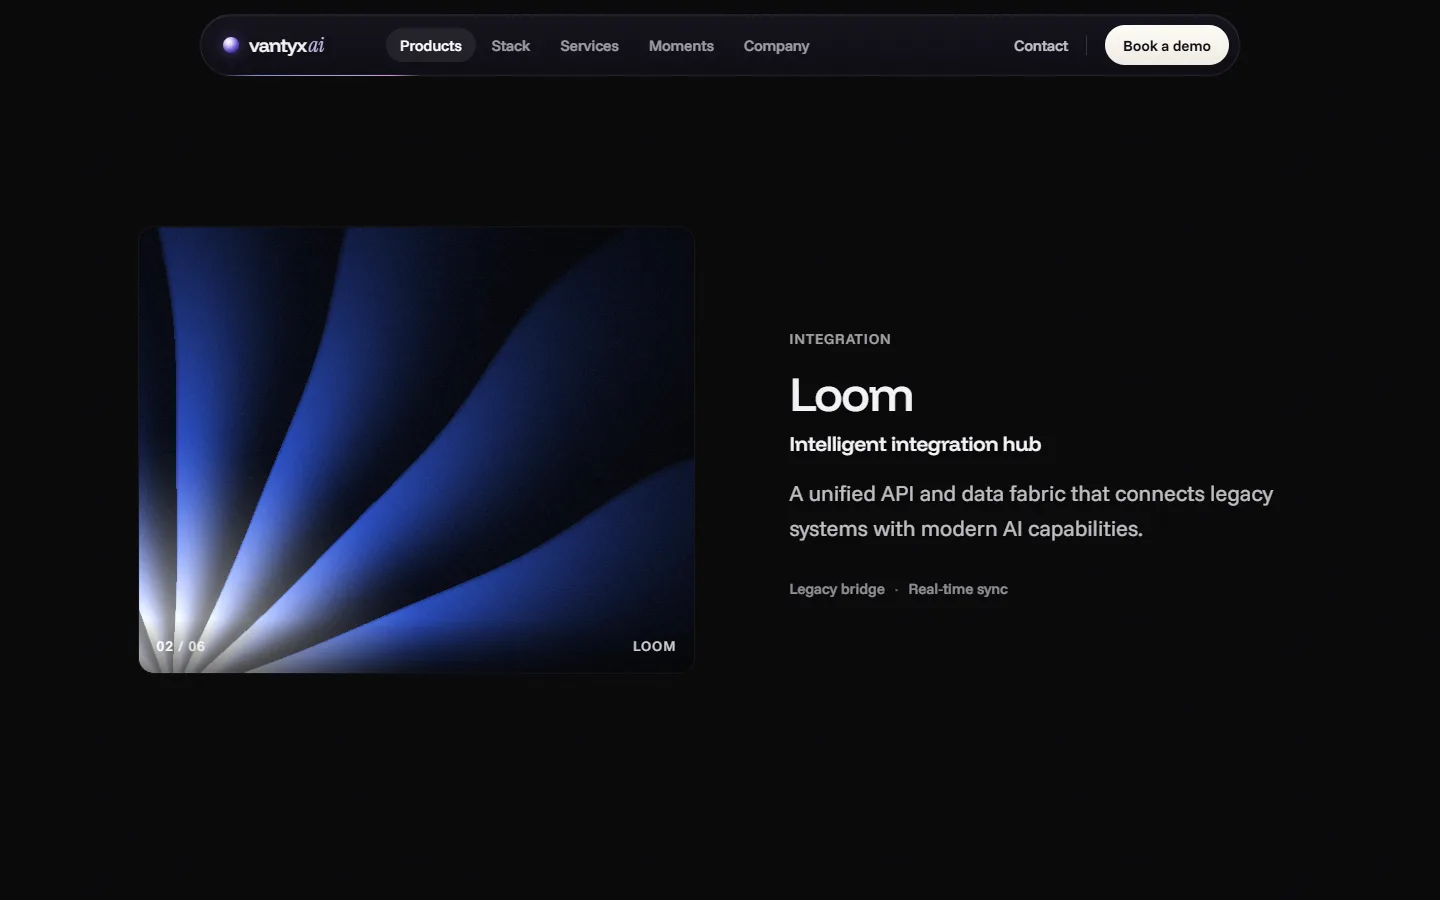
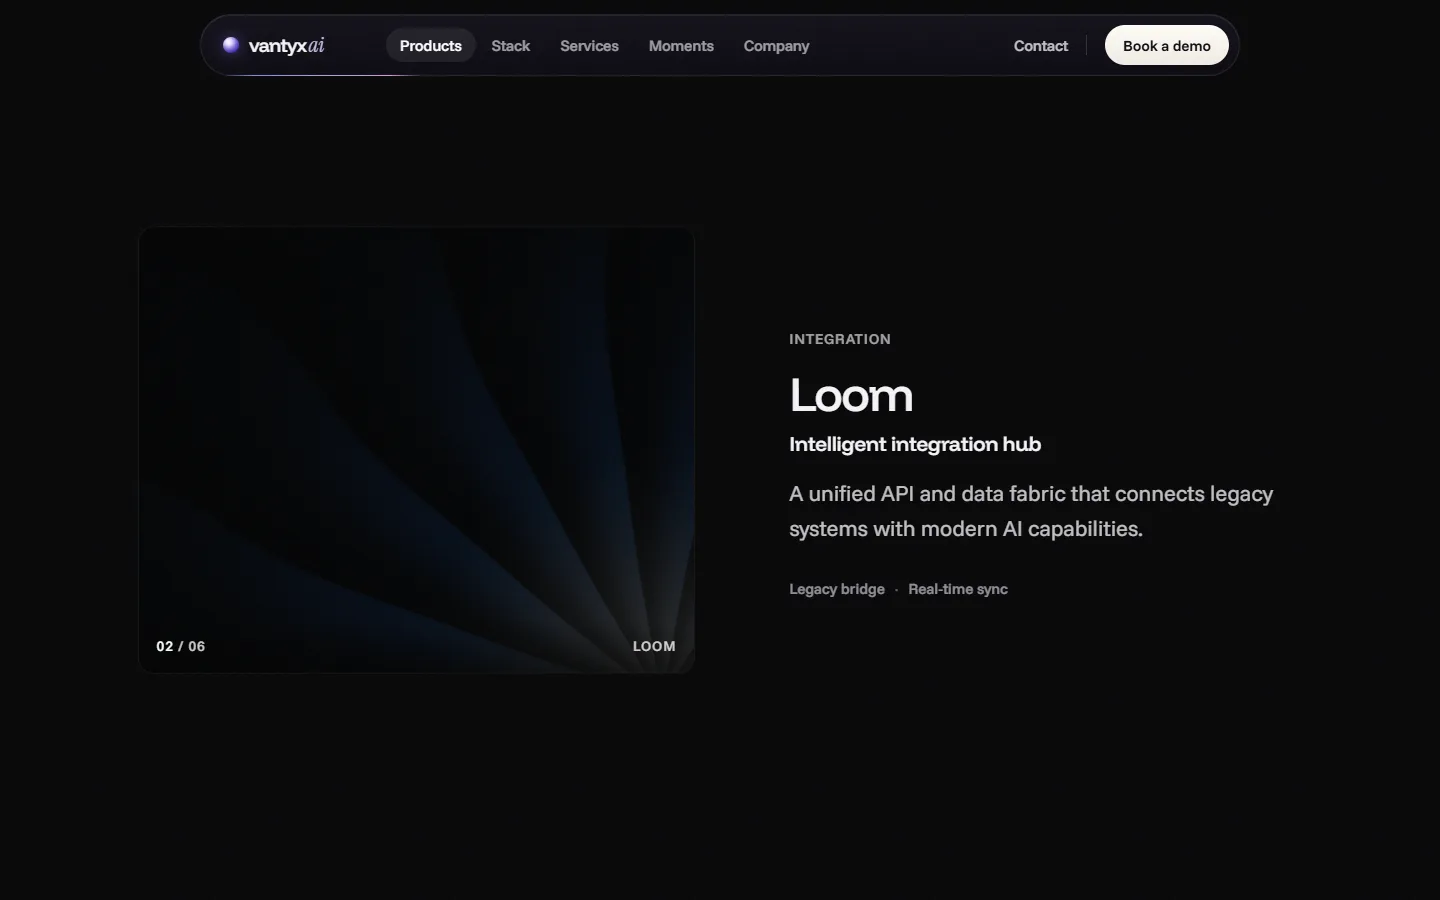
Home: Digital Nexus AI first; Work as two large cards in a wider grid
Label above the grid, one-line captions, stacked captions on phones.
Re-captured the 'Outcomes, not demos' screen with the heading clear of the nav.

Changed region(s): [[0.0938, 0.2489, 0.4688, 0.7467], [0.4375, 0.6844, 0.4688, 0.7156]]

diff --git a/index.html b/index.html
@@ -9,7 +9,7 @@
   <link rel="preconnect" href="https://fonts.gstatic.com" crossorigin>
   <link href="https://fonts.googleapis.com/css2?family=Instrument+Serif:ital@0;1&family=Inter:wght@400;500&display=swap" rel="stylesheet">
   <script>document.documentElement.classList.add("loading"); /* night first (my ask, 2026-11-19): a first visit opens at night; a saved "day" keeps day */ let t = null; try { t = localStorage.getItem("theme"); } catch (e) {} if (t !== "day") document.documentElement.dataset.theme = "night";</script>
-  <link rel="stylesheet" href="style.css?v=blend5">
+  <link rel="stylesheet" href="style.css?v=work8">
 </head>
 <body>
   <div class="loader" id="loader" aria-hidden="true">
@@ -60,6 +60,16 @@
     <section class="col" id="work">
       <h2>Work</h2>
       <div class="cards">
+        <a class="pcard" href="nexus.html" aria-label="Digital Nexus AI, website redesign concept (case study)">
+          <figure class="board" data-cycle>
+            <img class="shot on" src="assets/nexus/hero.webp?v=5" width="1440" height="900" alt="Digital Nexus AI redesign concept, home page" decoding="async" loading="lazy" draggable="false">
+            <img class="shot" src="assets/nexus/products.webp?v=6" width="1440" height="900" alt="" decoding="async" loading="lazy" draggable="false">
+            <img class="shot" src="assets/nexus/work.webp?v=6" width="1440" height="900" alt="" decoding="async" loading="lazy" draggable="false">
+            <span class="dots" aria-hidden="true"><i class="on"></i><i></i><i></i></span>
+          </figure>
+          <span class="cap"><span class="name">Digital Nexus AI <span class="arrow" aria-hidden="true">&rarr;</span></span><span class="kind">Website redesign concept</span></span>
+          <span class="line">An AI company&rsquo;s site that shows the work, not the hype. Five decisions, built in code.</span>
+        </a>
         <a class="pcard" href="https://genzoui.vercel.app" target="_blank" rel="noopener" aria-label="Genzo, component library (opens in a new tab)">
           <figure class="board" data-cycle>
             <img class="shot on" data-key="home" src="assets/genzo-home.png" width="1280" height="800" alt="Genzo's home page" decoding="async" loading="lazy" draggable="false">
@@ -70,16 +80,6 @@
           </figure>
           <span class="cap"><span class="name">Genzo <span class="arrow" aria-hidden="true">↗</span></span><span class="kind">Component library</span></span>
           <span class="line">Everyday interface elements with motion. Designers open the Figma file; Android code is on its way.</span>
-        </a>
-        <a class="pcard" href="nexus.html" aria-label="Digital Nexus AI, website redesign concept (case study)">
-          <figure class="board" data-cycle>
-            <img class="shot on" src="assets/nexus/hero.webp?v=5" width="1440" height="900" alt="Digital Nexus AI redesign concept, home page" decoding="async" loading="lazy" draggable="false">
-            <img class="shot" src="assets/nexus/products.webp?v=2" width="1440" height="900" alt="" decoding="async" loading="lazy" draggable="false">
-            <img class="shot" src="assets/nexus/work.webp?v=2" width="1440" height="900" alt="" decoding="async" loading="lazy" draggable="false">
-            <span class="dots" aria-hidden="true"><i class="on"></i><i></i><i></i></span>
-          </figure>
-          <span class="cap"><span class="name">Digital Nexus AI <span class="arrow" aria-hidden="true">&rarr;</span></span><span class="kind">Website redesign concept</span></span>
-          <span class="line">An AI company&rsquo;s site that shows the work, not the hype. Five decisions, built in code.</span>
         </a>
       </div>
     </section>

diff --git a/style.css b/style.css
@@ -633,3 +633,23 @@ a.hob { color: var(--ink); }
   section.col h2.sub:has(+ .svc) { --nudge: -14px; }
 }
 .pcard[href$=".html"]:hover .cap .arrow, .pcard[href$=".html"]:focus-visible .cap .arrow { translate: 3px 0; } /* in-site case study: the arrow points on, not out */
+
+/* Work, bigger (2026-11-19): a wider section than the text column, two large cards side by side
+   (about 1040px across on desktop), the "Work" label above them aligned to the grid, caption on one line
+   (name left, kind right) with the one-line summary under it. One column on phones. */
+#work.col { max-width: 1088px; padding: 0 24px; }
+.cards { grid-template-columns: repeat(2, minmax(0, 1fr)); gap: 48px 16px; width: 100%; margin-left: 0; translate: none; }
+.board { aspect-ratio: 4 / 3; --pad: clamp(20px, 4.4vw, 56px); border-radius: 18px; }
+.cap { margin-top: 16px; flex-wrap: wrap; row-gap: 2px; }
+.cap .name { font-size: 17px; white-space: nowrap; }
+.cap .kind { font-size: 15px; }
+.pcard .line { font-size: 15px; margin-top: 4px; }
+#work h2 { margin-bottom: 28px; }
+@media (min-width: 1200px) {
+  #work h2 { position: static; width: auto; text-align: left; margin: 0 0 28px; }
+}
+@media (max-width: 720px) {
+  #work.col { padding: 0 20px; }
+  .cards { grid-template-columns: 1fr; gap: 44px; }
+}
+@media (max-width: 720px) { .cap { flex-direction: column; align-items: flex-start; } }

diff --git a/nexus.html b/nexus.html
@@ -138,7 +138,7 @@
                 <div><dt>What I did</dt><dd>Replaced broad claims with room for case studies and measured results.</dd></div>
                 <div><dt>Trade-off</dt><dd>It needs real client data and permission before launch. The concept holds the space with placeholders.</dd></div>
               </dl>
-              <figure class="shot rv"><img src="assets/nexus/work.webp?v=2" width="1440" height="900" alt="Selected work: three case-study cards with outcome numbers" loading="lazy"></figure>
+              <figure class="shot rv"><img src="assets/nexus/work.webp?v=6" width="1440" height="900" alt="Selected work: three case-study cards with outcome numbers" loading="lazy"></figure>
             </article>
             <article>
               <div class="dec-head rv"><span class="dec-n">04</span><div><h3>One motion language</h3><span class="ties">Principle 3 &middot; Calm by default</span></div></div>
